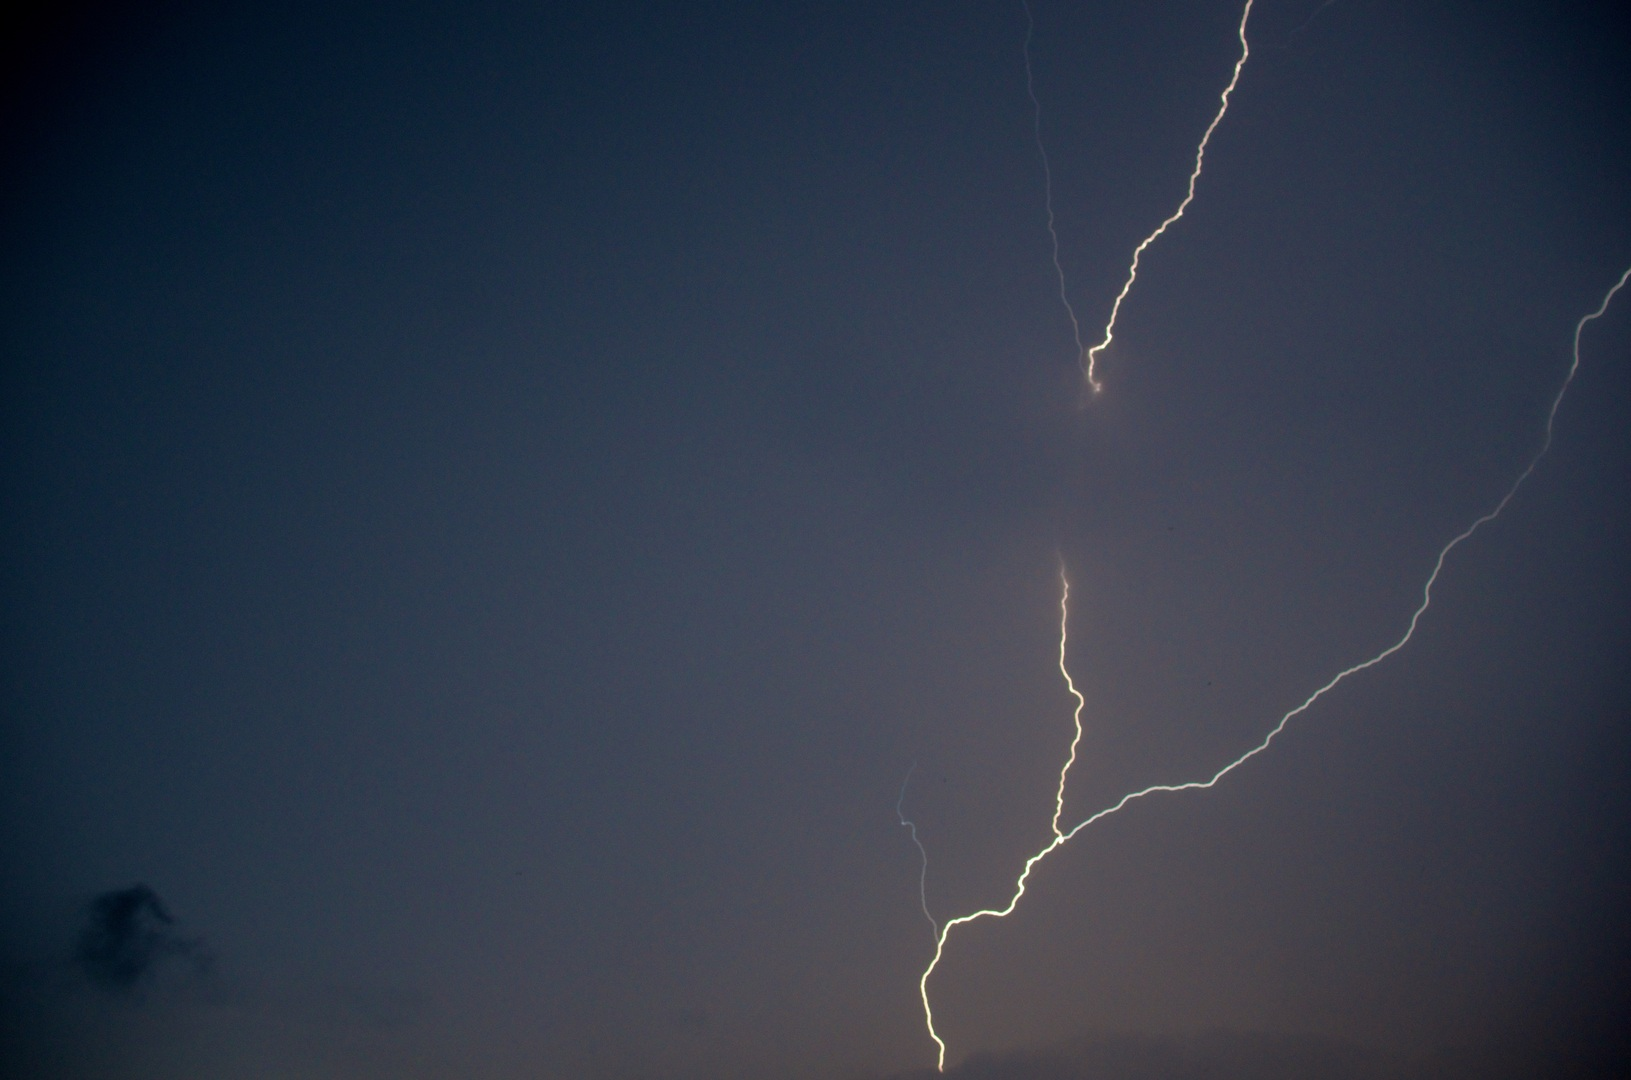
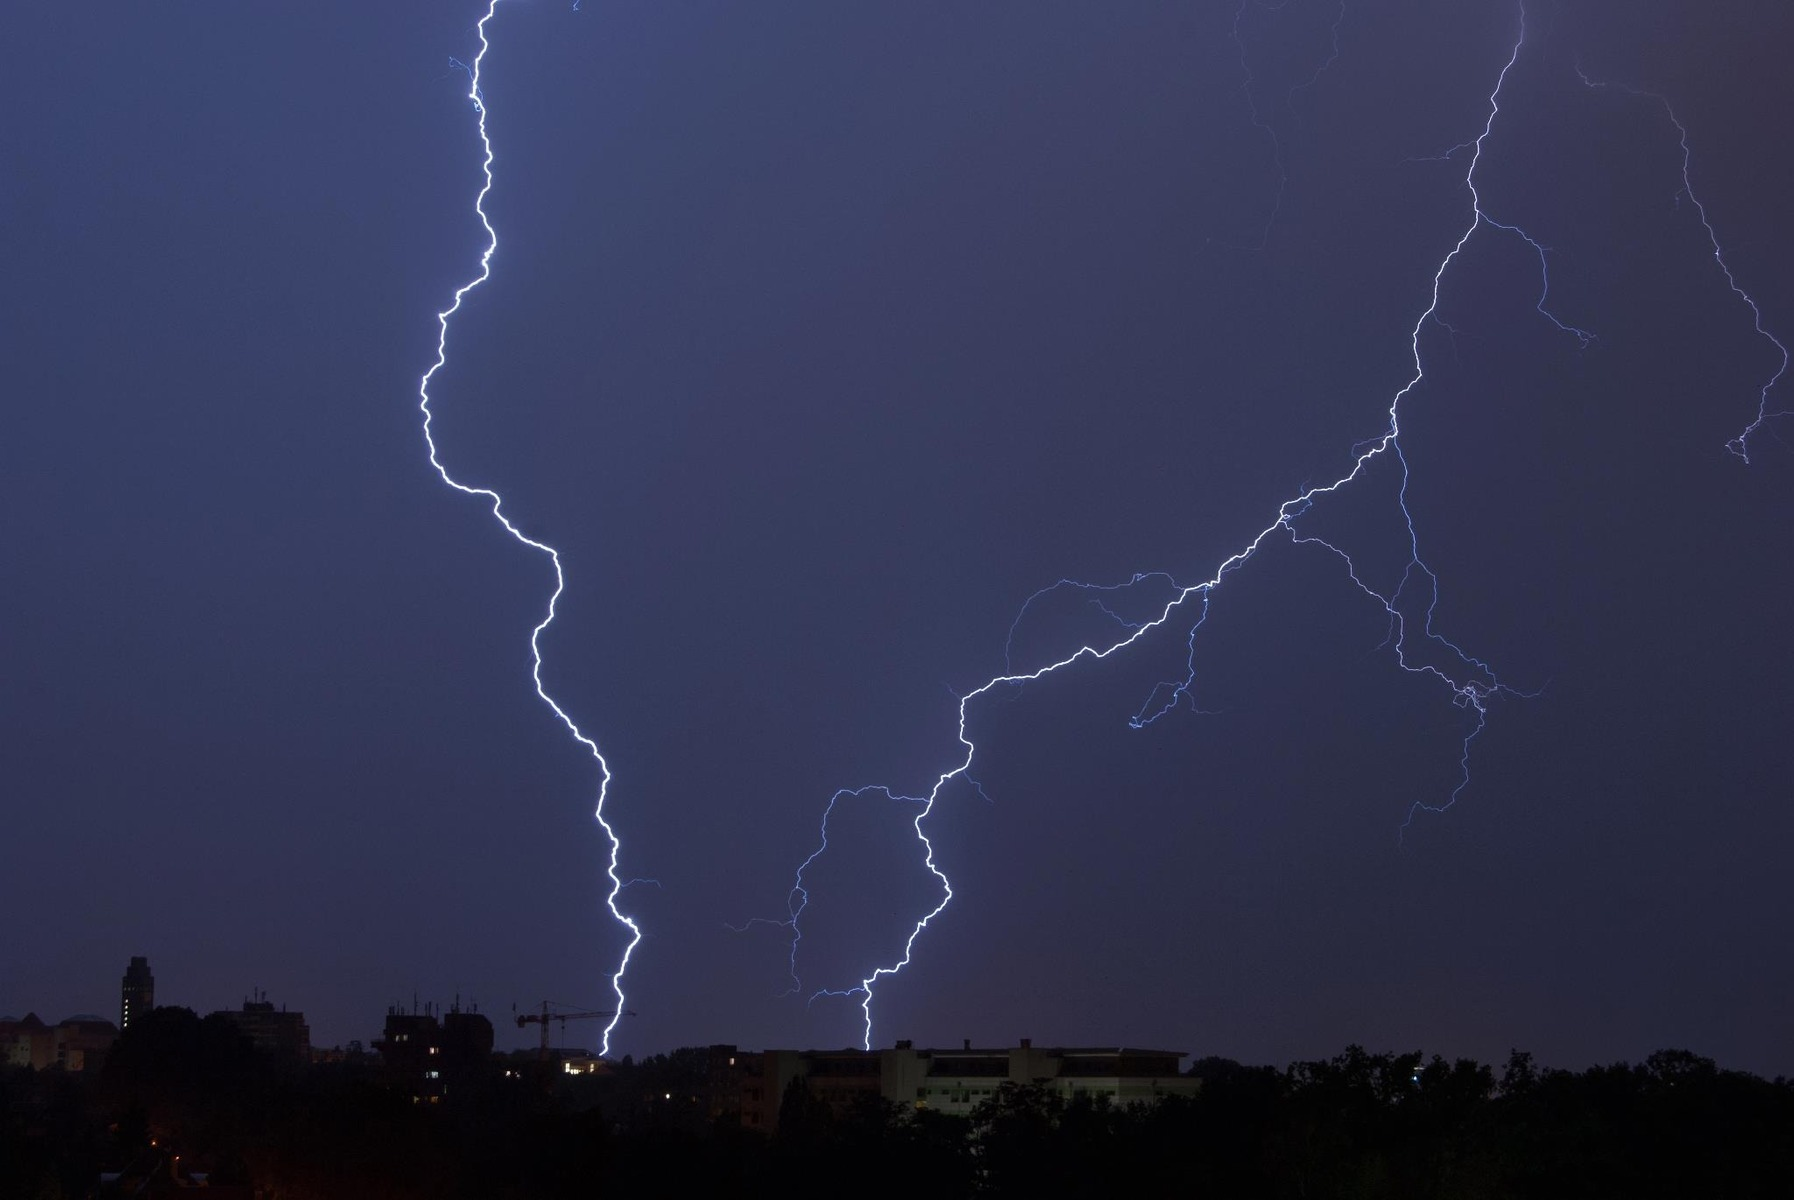
Images for group 2xx - thunderstorm

diff --git a/main.js b/main.js
@@ -153,6 +153,19 @@ const setBackground = (status) => {
 	if (status === 200) {
 		body.style.backgroundImage = 'url(./img/200.jpg)'
 		box.style.backgroundImage = 'url(./img/200.jpg)'
+	} else if (status === 201 || status === 202) {
+		body.style.backgroundImage = 'url(./img/201.jpg)'
+		box.style.backgroundImage = 'url(./img/201.jpg)'
+	} else if (status === 210 || status === 211) {
+		body.style.backgroundImage = 'url(./img/210.jpg)'
+		box.style.backgroundImage = 'url(./img/210.jpg)'
+	} else if (
+		status === 212 ||
+		status === 221 ||
+		(status === 230) | (status === 231) | (status === 232)
+	) {
+		body.style.backgroundImage = 'url(./img/212.jpg)'
+		box.style.backgroundImage = 'url(./img/212.jpg)'
 	} else if (status === 300) {
 		body.style.backgroundImage = 'url(./img/300.jpg)'
 		box.style.backgroundImage = 'url(./img/300.jpg)'
@@ -168,8 +181,7 @@ const setBackground = (status) => {
 	} else if (status === 314 || status === 321) {
 		body.style.backgroundImage = 'url(./img/314.jpg)'
 		box.style.backgroundImage = 'url(./img/314.jpg)'
-	} 
-	else if (status === 500) {
+	} else if (status === 500) {
 		body.style.backgroundImage = 'url(./img/500.jpg)'
 		box.style.backgroundImage = 'url(./img/500.jpg)'
 	} else if (status === 501 || status === 502) {
